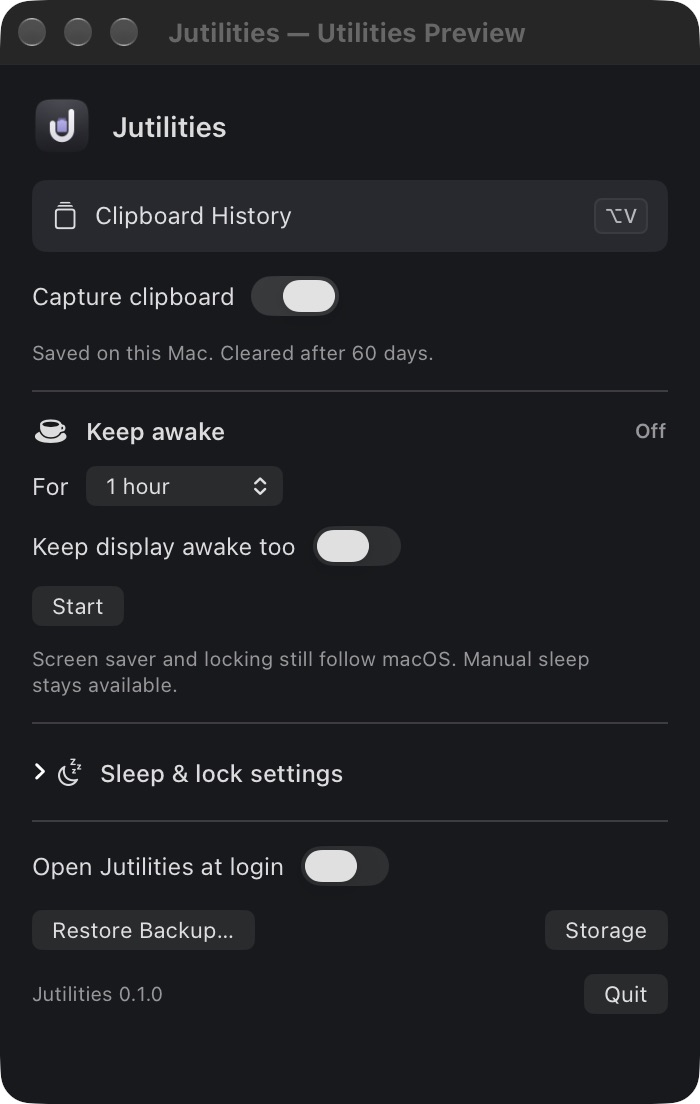
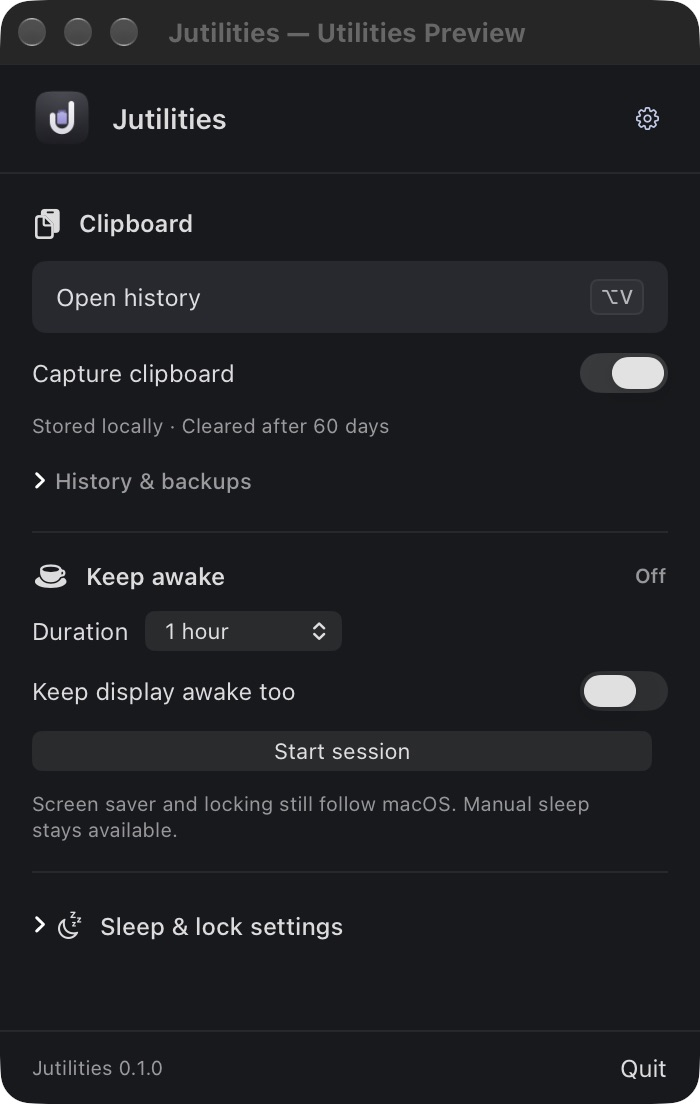
Organize menu-bar controls into focused sections

diff --git a/Sources/Jutilities/UtilityMenuView.swift b/Sources/Jutilities/UtilityMenuView.swift
@@ -1,0 +1,176 @@
+import ServiceManagement
+import SwiftUI
+
+struct UtilityMenuView: View {
+    @ObservedObject var model: ClipboardViewModel
+    @ObservedObject var power: PowerManager
+    let isPreview: Bool
+    let openClipboard: () -> Void
+    let restoreBackup: () -> Void
+    let openStorage: () -> Void
+    let quit: () -> Void
+    @State private var showsHistoryTools = false
+    @State private var loginError: String?
+    @State private var launchesAtLogin = SMAppService.mainApp.status == .enabled
+
+    var body: some View {
+        VStack(spacing: 0) {
+            header
+            separator
+            ScrollView {
+                VStack(alignment: .leading, spacing: 14) {
+                    if let loginError {
+                        Text(loginError)
+                            .font(.caption)
+                            .foregroundStyle(.orange)
+                    }
+                    clipboardSection
+                    separator
+                    PowerMenuView(manager: power)
+                    separator
+                    PowerSettingsView(manager: power)
+                }
+                .padding(16)
+            }
+            separator
+            footer
+        }
+        .font(.system(size: 12))
+        .controlSize(.small)
+        .tint(JutilitiesTheme.accent)
+        .preferredColorScheme(.dark)
+        .background(JutilitiesTheme.background)
+        .frame(width: JutilitiesLayout.menuSize.width, height: JutilitiesLayout.menuSize.height)
+    }
+
+    private var header: some View {
+        HStack(spacing: 10) {
+            Image(nsImage: BrandIcon.image(size: 32))
+                .resizable()
+                .scaledToFit()
+                .frame(width: 30, height: 30)
+                .accessibilityHidden(true)
+            Text("Jutilities")
+                .font(.system(size: 14, weight: .semibold))
+            Spacer()
+            Menu {
+                Toggle("Open Jutilities at login", isOn: Binding(
+                    get: { launchesAtLogin }, set: setLaunchesAtLogin))
+            } label: {
+                Image(systemName: "gearshape")
+                    .font(.system(size: 14))
+                    .foregroundStyle(JutilitiesTheme.muted)
+                    .frame(width: 26, height: 26)
+            }
+            .menuStyle(.borderlessButton)
+            .menuIndicator(.hidden)
+            .fixedSize()
+            .help("App settings")
+            .accessibilityLabel("App settings")
+        }
+        .padding(.horizontal, 16)
+        .padding(.vertical, 12)
+    }
+
+    private var clipboardSection: some View {
+        VStack(alignment: .leading, spacing: 10) {
+            Label("Clipboard", systemImage: "doc.on.clipboard")
+                .font(.system(size: 12, weight: .semibold))
+                .accessibilityAddTraits(.isHeader)
+            Button(action: openClipboard) {
+                HStack {
+                    Text("Open history")
+                    Spacer()
+                    ShortcutKey(label: "⌥V")
+                }
+                .padding(.horizontal, 12)
+                .padding(.vertical, 9)
+                .frame(maxWidth: .infinity)
+                .contentShape(Rectangle())
+                .background(JutilitiesTheme.selection, in: RoundedRectangle(cornerRadius: 7))
+            }
+            .buttonStyle(.plain)
+            .help("Open clipboard history (Option–V)")
+            .accessibilityLabel("Open clipboard history")
+            .accessibilityHint("Option–V opens clipboard history")
+            HStack {
+                Text("Capture clipboard")
+                Spacer()
+                Toggle("Capture clipboard", isOn: Binding(
+                    get: { !model.isPaused },
+                    set: { value in
+                        model.isPaused = !value
+                        model.onTogglePause(!value)
+                    }))
+                    .labelsHidden()
+                    .toggleStyle(.switch)
+            }
+            Text("Stored locally · Cleared after 60 days")
+                .font(.system(size: 10))
+                .foregroundStyle(JutilitiesTheme.muted)
+            DisclosureGroup(isExpanded: $showsHistoryTools) {
+                VStack(alignment: .leading, spacing: 10) {
+                    HStack(spacing: 8) {
+                        Button("Export backup…") { model.onBackup() }
+                            .help("Save a copy of your clipboard history")
+                        Button("Restore backup…", action: restoreBackup)
+                            .help("Restore clipboard history from a saved backup")
+                    }
+                    Button("Open history folder", action: openStorage)
+                        .buttonStyle(.link)
+                }
+                .padding(.top, 8)
+            } label: {
+                Text("History & backups")
+                    .font(.system(size: 11, weight: .medium))
+                    .foregroundStyle(JutilitiesTheme.muted)
+            }
+            if let error = model.errorMessage {
+                Text(error)
+                    .font(.caption)
+                    .foregroundStyle(.red)
+                    .fixedSize(horizontal: false, vertical: true)
+                    .textSelection(.enabled)
+            } else if let message = model.statusMessage {
+                Text(message)
+                    .font(.caption)
+                    .foregroundStyle(JutilitiesTheme.muted)
+                    .fixedSize(horizontal: false, vertical: true)
+            }
+        }
+    }
+
+    private var footer: some View {
+        HStack {
+            Text("Jutilities 0.1.0")
+                .font(.system(size: 10))
+                .foregroundStyle(JutilitiesTheme.muted)
+            Spacer()
+            Button("Quit", action: quit)
+                .buttonStyle(.plain)
+                .help("Quit Jutilities")
+        }
+        .padding(.horizontal, 16)
+        .frame(height: 36)
+    }
+
+    private var separator: some View {
+        Rectangle().fill(JutilitiesTheme.separator).frame(height: 1)
+    }
+
+    private func setLaunchesAtLogin(_ value: Bool) {
+        loginError = nil
+        guard !isPreview else {
+            loginError = "Preview mode does not change login items."
+            return
+        }
+        do {
+            if value { try SMAppService.mainApp.register() }
+            else { try SMAppService.mainApp.unregister() }
+            launchesAtLogin = SMAppService.mainApp.status == .enabled
+            if value && !launchesAtLogin {
+                loginError = "Allow Jutilities in System Settings → Login Items."
+            }
+        } catch { loginError = error.localizedDescription }
+    }
+}

diff --git a/Sources/Jutilities/AppDelegate.swift b/Sources/Jutilities/AppDelegate.swift
@@ -15,6 +15,7 @@ final class AppDelegate: NSObject, NSApplicationDelegate, NSWindowDelegate {
     private var store: ClipboardStore?
     private var statusItem: NSStatusItem?
     private var panel: NSPanel?
+    private var previewMenuPanel: NSPanel?
     private var popover: NSPopover?
     private var maintenanceTimer: Timer?
     private var previousApplication: NSRunningApplication?
@@ -154,7 +155,7 @@ final class AppDelegate: NSObject, NSApplicationDelegate, NSWindowDelegate {
             window.contentViewController = popup.contentViewController
             window.isReleasedWhenClosed = false
             window.center()
-            panel = window
+            previewMenuPanel = window
             window.makeKeyAndOrderFront(nil)
             NSApp.activate(ignoringOtherApps: true)
             return
@@ -165,6 +166,7 @@ final class AppDelegate: NSObject, NSApplicationDelegate, NSWindowDelegate {
 
     private func showClipboard() {
         popover?.performClose(nil)
+        previewMenuPanel?.orderOut(nil)
         if let front = NSWorkspace.shared.frontmostApplication, front.processIdentifier != getpid() {
             previousApplication = front
         }
@@ -395,82 +397,4 @@ final class AppDelegate: NSObject, NSApplicationDelegate, NSWindowDelegate {
 private final class LauncherPanel: NSPanel {
     override var canBecomeKey: Bool { true }
     override var canBecomeMain: Bool { true }
-}
-
-private struct UtilityMenuView: View {
-    @ObservedObject var model: ClipboardViewModel
-    @ObservedObject var power: PowerManager
-    let isPreview: Bool
-    let openClipboard: () -> Void
-    let restoreBackup: () -> Void
-    let openStorage: () -> Void
-    let quit: () -> Void
-    @State private var loginError: String?
-    @State private var launchesAtLogin = SMAppService.mainApp.status == .enabled
-
-    var body: some View {
-        ScrollView {
-            VStack(alignment: .leading, spacing: 12) {
-                HStack(spacing: 10) {
-                    Image(nsImage: BrandIcon.image(size: 32))
-                        .resizable()
-                        .scaledToFit()
-                        .frame(width: 30, height: 30)
-                        .accessibilityHidden(true)
-                    Text("Jutilities").font(.system(size: 14, weight: .semibold))
-                    Spacer()
-                }
-                Button(action: openClipboard) {
-                    HStack {
-                        Label("Clipboard History", systemImage: "square.stack")
-                        Spacer()
-                        ShortcutKey(label: "⌥V")
-                    }
-                    .padding(.horizontal, 10)
-                    .padding(.vertical, 9)
-                    .frame(maxWidth: .infinity)
-                    .contentShape(Rectangle())
-                    .background(JutilitiesTheme.selection, in: RoundedRectangle(cornerRadius: 7))
-                }
-                .buttonStyle(.plain)
-                .help("Open clipboard history (Option–V)")
-                .accessibilityHint("Option–V opens clipboard history")
-                Toggle("Capture clipboard", isOn: Binding(get: { !model.isPaused }, set: { value in
-                    model.isPaused = !value
-                    model.onTogglePause(!value)
-                })).toggleStyle(.switch)
-                Text("Saved on this Mac. Cleared after 60 days.")
-                    .font(.caption).foregroundStyle(.secondary)
-                Divider().overlay(JutilitiesTheme.separator)
-                PowerSettingsView(manager: power)
-                Divider().overlay(JutilitiesTheme.separator)
-                Toggle("Open Jutilities at login", isOn: Binding(get: { launchesAtLogin }, set: { value in
-                    guard !isPreview else { loginError = "Preview mode does not change login items."; return }
-                    do {
-                        if value { try SMAppService.mainApp.register() }
-                        else { try SMAppService.mainApp.unregister() }
-                        launchesAtLogin = SMAppService.mainApp.status == .enabled
-                        if value && !launchesAtLogin { loginError = "Allow Jutilities in System Settings → Login Items." }
-                    } catch { loginError = error.localizedDescription }
-                })).toggleStyle(.switch)
-                if let loginError { Text(loginError).font(.caption).foregroundStyle(.orange) }
-                HStack {
-                    Button("Restore Backup…", action: restoreBackup)
-                    Spacer()
-                    Button("Storage", action: openStorage)
-                }.font(.caption)
-                HStack {
-                    Text("Jutilities 0.1.0").font(.caption).foregroundStyle(.secondary)
-                    Spacer()
-                    Button("Quit", action: quit)
-                }
-            }.padding(16)
-        }
-        .font(.system(size: 12))
-        .controlSize(.small)
-        .tint(JutilitiesTheme.accent)
-        .preferredColorScheme(.dark)
-        .background(JutilitiesTheme.background)
-        .frame(width: JutilitiesLayout.menuSize.width, height: JutilitiesLayout.menuSize.height)
-    }
 }

diff --git a/Sources/Jutilities/PowerSettingsView.swift b/Sources/Jutilities/PowerSettingsView.swift
@@ -11,6 +11,7 @@ struct PowerMenuView: View {
             HStack {
                 Label("Keep awake", systemImage: "cup.and.saucer.fill")
                     .font(.system(size: 12, weight: .semibold))
+                    .accessibilityAddTraits(.isHeader)
                 Spacer()
                 Text(manager.isKeepingAwake ? "On" : "Off")
                     .font(.caption.weight(.semibold))
@@ -29,7 +30,7 @@ struct PowerMenuView: View {
                         .font(.caption).foregroundStyle(.secondary)
                 }
             }
-            Picker("For", selection: $durationMinutes) {
+            Picker("Duration", selection: $durationMinutes) {
                 Text("15 minutes").tag(15)
                 Text("30 minutes").tag(30)
                 Text("1 hour").tag(60)
@@ -37,12 +38,20 @@ struct PowerMenuView: View {
                 Text("Indefinitely").tag(0)
             }
             .controlSize(.small)
-            Toggle("Keep display awake too", isOn: $display)
-                .toggleStyle(.switch)
-                .controlSize(.small)
             HStack {
-                Button(manager.isKeepingAwake ? "Restart session" : "Start") {
+                Text("Keep display awake too")
+                Spacer()
+                Toggle("Keep display awake too", isOn: $display)
+                    .labelsHidden()
+                    .toggleStyle(.switch)
+                    .controlSize(.small)
+            }
+            HStack {
+                Button {
                     manager.start(duration: durationMinutes == 0 ? nil : TimeInterval(durationMinutes * 60), display: display)
+                } label: {
+                    Text(manager.isKeepingAwake ? "Restart session" : "Start session")
+                        .frame(maxWidth: .infinity)
                 }
                 .buttonStyle(.borderedProminent)
                 if manager.isKeepingAwake {
@@ -66,8 +75,6 @@ struct PowerSettingsView: View {
 
     var body: some View {
         VStack(alignment: .leading, spacing: 12) {
-            PowerMenuView(manager: manager)
-            Divider().overlay(JutilitiesTheme.separator)
             DisclosureGroup(isExpanded: $showsSleepSettings) {
                 VStack(alignment: .leading, spacing: 12) {
                     HStack {

diff --git a/README.md b/README.md
@@ -47,13 +47,13 @@ Use `--preview-menu` instead of `--preview` to inspect the menu-bar controls in 
 | ⌘Delete | Delete the selected item |
 | Escape | Close actions or the clipboard panel |
 
-Type to search. The compact, resizable clipboard panel opens at 760 × 500 points. Use the JU menu bar item to pause capture, open history, restore a backup or change power settings. Expand **Sleep & lock settings** to edit saved macOS defaults. If another app uses ⌥V, open history from the menu bar instead.
+Type to search. The compact, resizable clipboard panel opens at 760 × 500 points. The JU menu groups controls into **Clipboard**, **Keep awake**, and **Sleep & lock settings**. Expand **History & backups** under Clipboard to export or restore history and open its data folder. Expand **Sleep & lock settings** to edit saved macOS defaults. The header's gear menu holds launch-at-login, and Quit stays in the footer while settings scroll. If another app uses ⌥V, open history from the menu bar instead.
 
 Automatic paste needs **System Settings → Privacy & Security → Accessibility → Jutilities**. Without this optional permission, Jutilities copies the item and you can paste with ⌘V. A locally rebuilt app may need its Accessibility grant renewed.
 
 On first launch, a setup popup offers **Enable Automatic Paste** and **Use Copy-Only**. Enable asks macOS for permission and opens the Accessibility pane.
 
-Enable **Open Jutilities at login** in the JU menu. The native login item can also be registered by launching the installed app with `--enable-login`:
+Enable **Open Jutilities at login** from the gear in the JU menu. The native login item can also be registered by launching the installed app with `--enable-login`:
 
 ```sh
 open "$HOME/Applications/Jutilities.app" --args --enable-login
